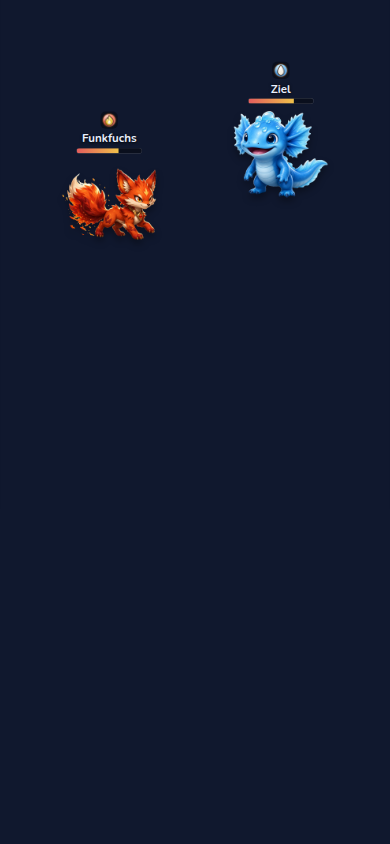
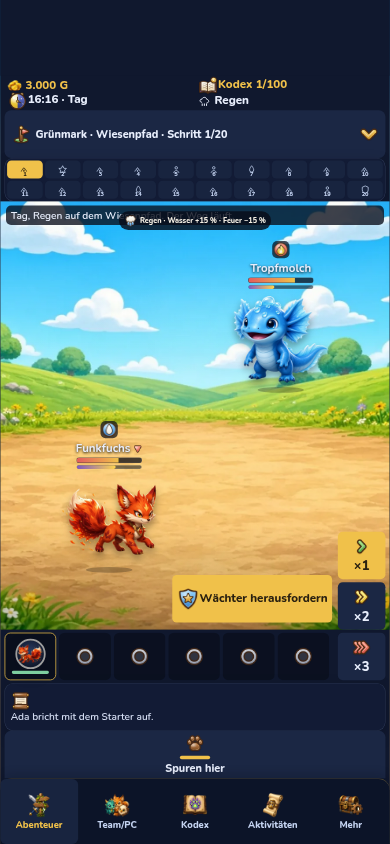
Status-Marke sitzt auf dem Getroffenen.
Brand vom Feuer landet auf dem Gegner, Nässe vom Wasser auf dem Fuchs. Die Bilder kommen vom Kampfbildschirm, der Tooltip bleibt lesbar.

diff --git a/src/adventure/app.ts b/src/adventure/app.ts
@@ -273,25 +273,38 @@ function showFxDemo(kind: 'fire' | 'hit' | 'ko', requested: string | null = null
 const REGION_TINT = [0x7dcea0, 0x7dcea0, 0x9ad7ff, 0xff8a3d, 0x7e57c2, 0xf0c14a]
 
 function showK5Demo(part: string | null): void {
-  const tip = part === 'tooltip'
-  const brand = AILMENTS.brand
-  const wet = AILMENTS.naesse
-  paint(`<div id="stage" class="fx-demo"><div class="anchor anchor-mid"><div class="battle" id="battle" data-fx="live" style="height:980px">
-    <div class="battle-world" id="battle-world">
-      <div class="combatant foe" id="foe-actor" style="left:72%;top:58%">
-        <button type="button" class="status-mark" data-act="status" data-who="foe" data-tip="${wet.tip}"><img src="${art(ailmentIcon('naesse'))}" alt="Nässe"/></button>
-        <p class="status-tip" id="foe-tip" hidden>${wet.tip}</p>
-        <b>Ziel</b><div class="hp"><span style="width:70%"></span></div>
-        <img class="sprite" src="${monsterArt('m02', true)}" alt=""/>
-      </div>
-      <div class="combatant ally" id="ally-actor" style="left:28%;top:72%">
-        <button type="button" class="status-mark" data-act="status" data-who="ally" data-tip="${brand.tip}"><img src="${art(ailmentIcon('brand'))}" alt="Brand"/></button>
-        <p class="status-tip" id="ally-tip" ${tip ? '' : 'hidden'}>${brand.tip}</p>
-        <b>Funkfuchs</b><div class="hp"><span style="width:64%"></span></div>
-        <img class="sprite" src="${monsterArt('m01', true)}" alt=""/>
-      </div>
-    </div>
-  </div></div></div>`)
+  const kind = part === 'tooltip' ? 'tooltip' : part === 'before' ? 'before' : 'status'
+  save = beginAdventure('Ada', 'A', 'm01', Date.now())
+  screen = 'adventure'
+  const uid = save.active
+  if (uid && save.mons[uid]) save.mons[uid].lvl = 25
+  save.settings.speed = 1
+  render()
+  const foeName = document.getElementById('foe-name')
+  if (foeName) setActorName(foeName, 'Tropfmolch')
+  const foeImg = document.getElementById('foe-sprite')
+  if (foeImg instanceof HTMLImageElement) {
+    foeImg.hidden = false
+    foeImg.src = monsterArt('m02', true)
+  }
+  const foeHp = document.getElementById('foe-hp')
+  if (foeHp) foeHp.style.width = '72%'
+  const allyHp = document.getElementById('ally-hp')
+  if (allyHp) allyHp.style.width = '64%'
+  paintUlt('ally-ult', 3, true)
+  paintUlt('foe-ult', 2, true)
+  if (kind !== 'before') {
+    paintMark('ally-status', 'naesse', 1)
+    paintMark('foe-status', 'brand', 1)
+  }
+  if (kind === 'tooltip') {
+    const tip = document.getElementById('ally-tip')
+    const button = document.getElementById('ally-status')
+    if (tip && button) {
+      tip.hidden = false
+      tip.textContent = button.dataset.tip ?? ''
+    }
+  }
   document.getElementById('battle')?.setAttribute('data-fx', 'hold')
 }
 

diff --git a/src/adventure/ailment.test.ts b/src/adventure/ailment.test.ts
@@ -33,6 +33,15 @@ describe('battle ailments', () => {
     expect(immune.frames.some((frame) => frame.foeMark === 'brand')).toBe(false)
   })
 
+  it('puts the mark on the monster that was hit, not on the attacker', () => {
+    const soaked = fight1v1(side('m02', 1, 4000, 20, 200), side('m10', 1, 4000, 20, 1), () => 0.99, true)
+    expect(soaked.frames.some((frame) => frame.foeMark === 'naesse')).toBe(true)
+    expect(soaked.frames.some((frame) => frame.allyMark === 'naesse')).toBe(false)
+    const branded = fight1v1(side('m01', 25, 6000, 30, 200), side('m10', 1, 6000, 20, 1), () => 0.99, true)
+    expect(branded.frames.some((frame) => frame.foeMark === 'brand')).toBe(true)
+    expect(branded.frames.some((frame) => frame.allyMark === 'brand')).toBe(false)
+  })
+
   it('stacks Giftnebel to 3 and keeps the encounter clock', () => {
     const trace = fight1v1(side('m14', 1, 8000, 15, 200), side('m10', 1, 8000, 10, 1), () => 0.99, true)
     const stacks = trace.frames.map((frame) => frame.foeStacks ?? 0)

diff --git a/src/adventure/adventure.css b/src/adventure/adventure.css
@@ -437,10 +437,11 @@ textarea { width: 100%; box-sizing: border-box; background: #121a30; color: inhe
 }
 .status-mark img { width: 40px; height: 40px; object-fit: contain; display: block; margin: 4px auto; }
 .status-tip {
-  position: absolute; z-index: 8; left: 50%; top: -8px; transform: translate(-50%, -100%);
-  width: max-content; max-width: 280px; margin: 0; padding: 8px 12px; border-radius: 14px;
-  background: rgba(8, 12, 24, 0.92); color: #fff8e1; font-weight: 700; font-size: 18px; text-align: center;
+  position: absolute; z-index: 9; top: 0; left: calc(100% + 16px);
+  width: max-content; max-width: 320px; margin: 0; padding: 10px 14px; border-radius: 16px;
+  background: rgba(8, 12, 24, 0.94); color: #fff8e1; font-weight: 700; font-size: 36px; line-height: 1.25; text-align: left;
 }
+.combatant.foe .status-tip { left: auto; right: calc(100% + 16px); }
 
 .seal {
   position: absolute;

diff --git a/docs/k5-status.md b/docs/k5-status.md
@@ -6,7 +6,7 @@ Werte aus `docs/kampf-upgrade-konzept.md`, Abschnitt B2. Ein Monster trägt höc
 |---|---|---|---|
 | Brand | 3 % Max-HP je Angriff des Trägers, mit Wetterfaktor des Verursachers | 3 Angriffe | Feuer-Ult und Feuer-Fertigkeit. Der schlichte Schlag setzt keine Brand. |
 | Nässe | DEF −15 % | 3 Angriffe | Wasser |
-| Frost | 30 % Chance, den eigenen Angriff auszusetzen | 2 Angriffe | Eis |
+| Frost | 30 % Chance, den eigenen Angriff auszusetzen. Das ist die Auslegung von „SPD −30 %, greift seltener“, weil die Zugreihenfolge am Kampfbeginn feststeht. | 2 Angriffe | Eis |
 | Giftnebel | 2 % Max-HP je Angriff und Stapel, mit Wetterfaktor | 4 Angriffe, bis 3 Stapel | Gift |
 | Schock | der nächste Angriff macht 50 % Schaden | 1 Angriff | Blitz |
 | Spreu | 20 % der Angriffe gehen daneben | 3 Angriffe | Wind und Insekt |
